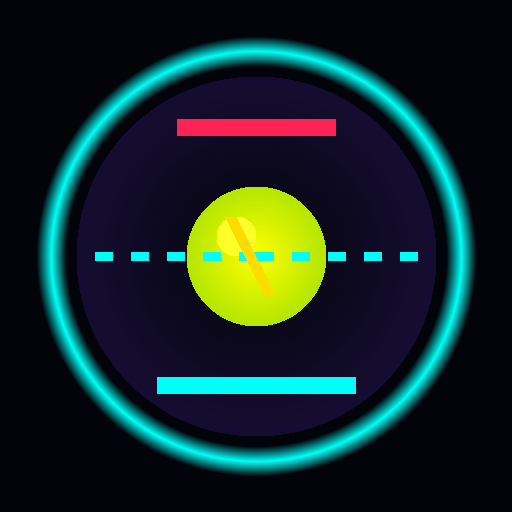
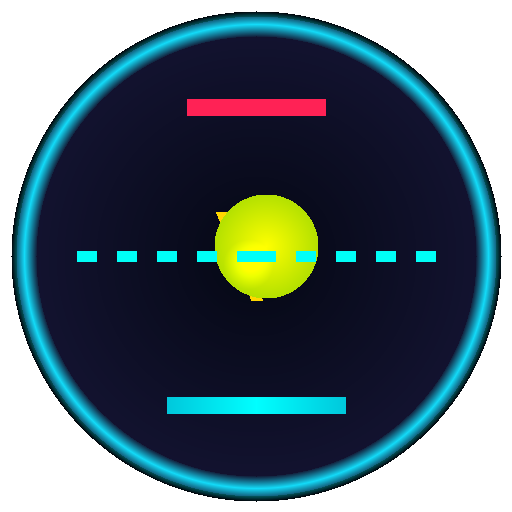
Add files via upload

diff --git a/index.html b/index.html
@@ -797,25 +797,8 @@ canvas{position:absolute;top:0;left:0;width:100%;height:100%;display:block;touch
 </style>
 <link rel="manifest" href="manifest.json"/>
 <script>
-// Inline manifest fallback for PWABuilder detection
-const _manifest={
-  "name":"Neon Tennis Rush",
-  "short_name":"NeonTennis",
-  "description":"Neon Tennis Rush Arcade Game",
-  "start_url":"index.html",
-  "display":"fullscreen",
-  "orientation":"portrait",
-  "background_color":"#02040a",
-  "theme_color":"#02040a",
-  "icons":[{"src":"icon.png","sizes":"512x512","type":"image/png","purpose":"any maskable"}]
-};
-const _blob=new Blob([JSON.stringify(_manifest)],{type:'application/manifest+json'});
-document.querySelector('link[rel="manifest"]').href=URL.createObjectURL(_blob);
-// Register service worker inline
 if('serviceWorker' in navigator){
-  const _sw=`const C='nt1';self.addEventListener('install',e=>{self.skipWaiting()});self.addEventListener('fetch',e=>{e.respondWith(fetch(e.request).catch(()=>caches.match(e.request)))})`;
-  const _swBlob=new Blob([_sw],{type:'text/javascript'});
-  navigator.serviceWorker.register(URL.createObjectURL(_swBlob)).catch(()=>{});
+  navigator.serviceWorker.register('sw.js').catch(()=>{});
 }
 </script>
 <link rel="icon" href="icon.png" type="image/png"/>

diff --git a/sw.js b/sw.js
@@ -1,9 +1,18 @@
-const CACHE = 'neon-tennis-v1';
-const FILES = ['index.html', 'manifest.json'];
+const CACHE = 'neon-tennis-v2';
+const FILES = ['index.html', 'manifest.json', 'icon.png', 'icon-192.png'];
 
 self.addEventListener('install', e => {
-  e.waitUntil(caches.open(CACHE).then(c => c.addAll(FILES)));
+  e.waitUntil(
+    caches.open(CACHE).then(c => c.addAll(FILES).catch(()=>{}))
+  );
   self.skipWaiting();
+});
+
+self.addEventListener('activate', e => {
+  e.waitUntil(caches.keys().then(keys =>
+    Promise.all(keys.filter(k=>k!==CACHE).map(k=>caches.delete(k)))
+  ));
+  self.clients.claim();
 });
 
 self.addEventListener('fetch', e => {